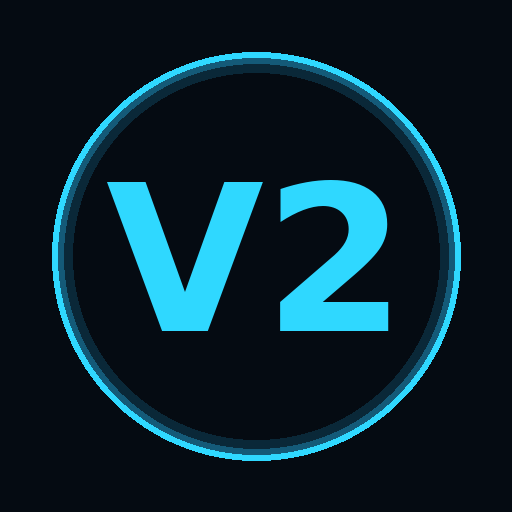
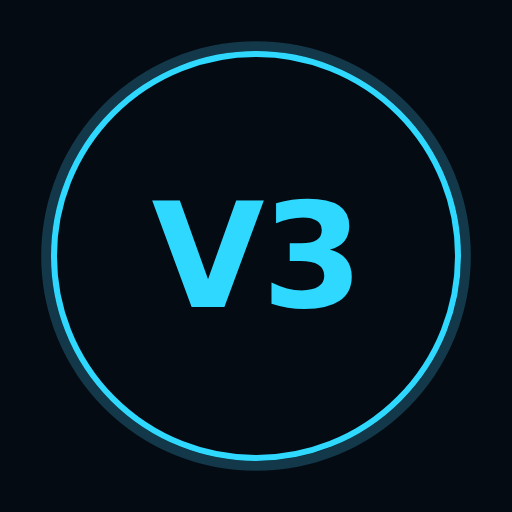
Vantora 3: logotipo V3 (antes estava V2)
Claude-Session: https://claude.ai/code/session_01YENyAJEhWTCD3J3PGxckxu

Changed region(s): [[0.0625, 0.0625, 0.9375, 0.9375]]

diff --git a/vantora3/sw.js b/vantora3/sw.js
@@ -1,5 +1,5 @@
 /* Vantora 3: guarda a tela do app para abrir sem internet. Os dados NÃO passam por aqui. */
-const V='van3-app-v1';
+const V='van3-app-v2';
 const ARQ=['./','index.html','manifest.webmanifest','icon-192.png','icon-512.png','icon-maskable-512.png','apple-touch-icon.png'];
 self.addEventListener('install',e=>{e.waitUntil(caches.open(V).then(c=>c.addAll(ARQ)).then(()=>self.skipWaiting()));});
 self.addEventListener('activate',e=>{e.waitUntil(caches.keys().then(ks=>Promise.all(ks.filter(k=>k.startsWith('van3-')&&k!==V).map(k=>caches.delete(k)))).then(()=>self.clients.claim()));});
